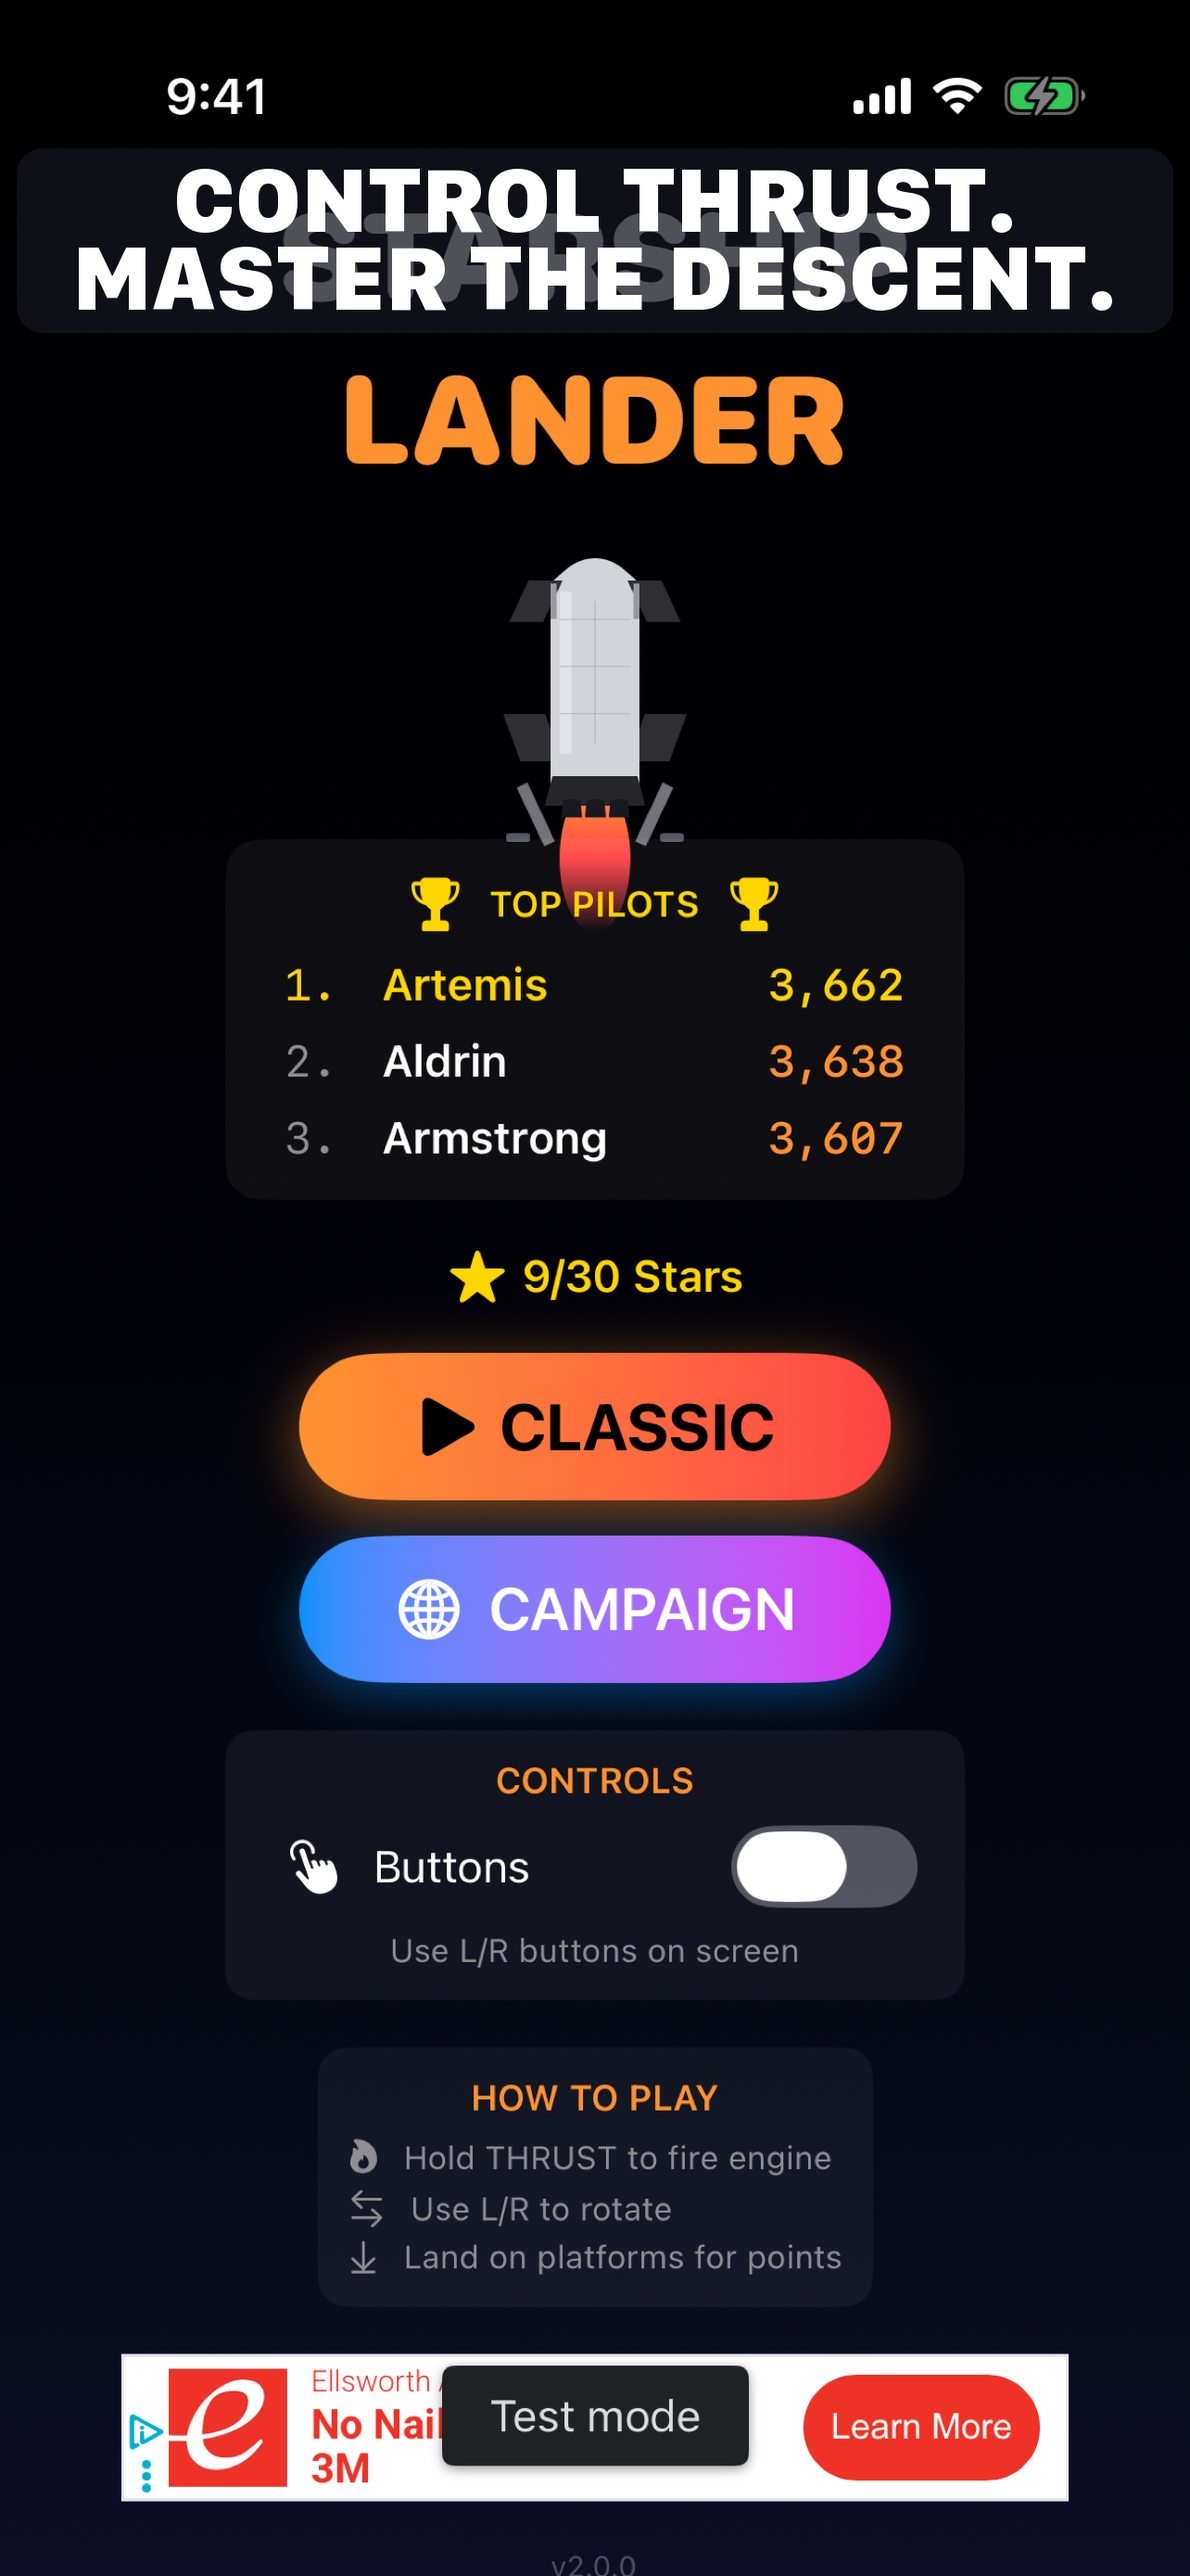
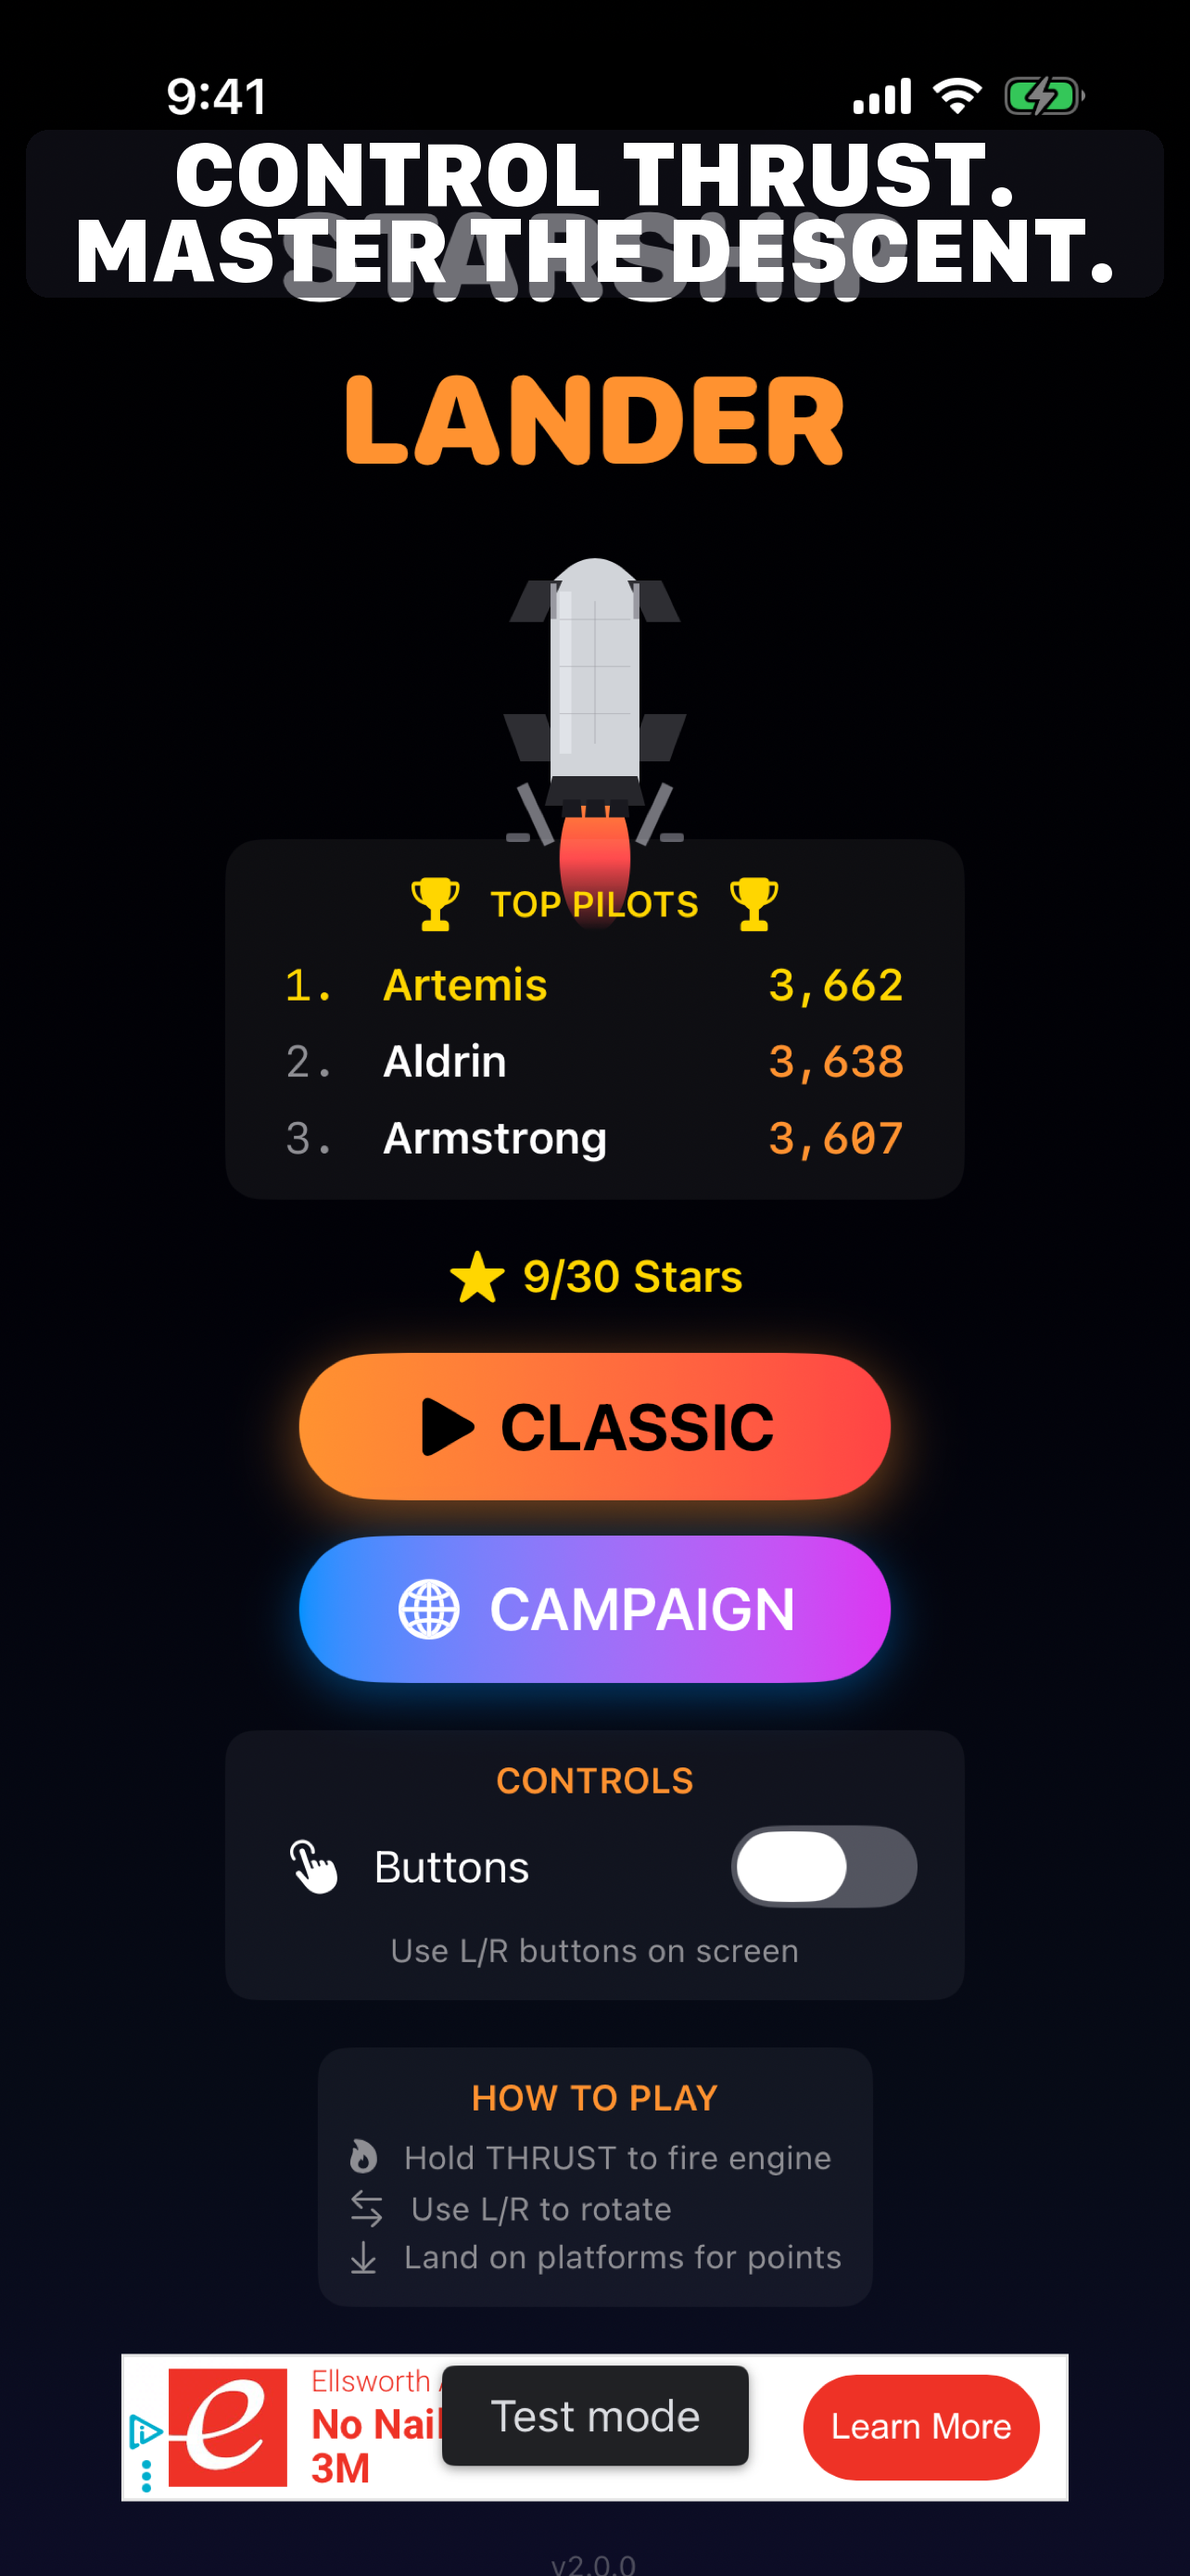
Tighten caption placement: 11% shorter pills, no HUD overlap
- Reduced pill padding (22→14 vertical, 60→50 horizontal)
- Reduced line spacing (14→12) and corner radius (28→24)
- Pill height: 198px → 180px (8.8% reduction, 19% total from v1)
- Main menu pill opacity reduced 75%→61% to prevent visual overload
  with game title and leaderboard
- All pills end at y=320, leaving clear gap before HUD at ~370+
- Caption reads as header, not banner

Changed region(s): [[0.0623, 0.031, 0.9346, 0.1238]]

diff --git a/Scripts/caption_screenshots.py b/Scripts/caption_screenshots.py
@@ -26,22 +26,28 @@ FONT_CANDIDATES = [
 ]
 
 FONT_SIZE = 100
-LINE_SPACING = 14  # pixels between lines
+LINE_SPACING = 12  # pixels between lines
 
-# Background pill styling
+# Background pill styling (default)
 PILL_COLOR = (20, 20, 30, 190)    # dark blue-black at ~75% opacity
-PILL_PADDING_H = 60               # horizontal padding inside pill
-PILL_PADDING_V = 22               # vertical padding inside pill
-PILL_RADIUS = 28                   # corner radius
+PILL_PADDING_H = 50               # horizontal padding inside pill
+PILL_PADDING_V = 14               # vertical padding inside pill
+PILL_RADIUS = 24                   # corner radius
 
-# Caption definitions: (filename, line1, line2, y_top)
-# y_top is the top edge of the pill (caption block anchored from top)
+# Caption definitions: (filename, line1, line2, y_top, pill_color_override)
+# y_top: top edge of pill, tuned per screenshot to sit as header with gap before HUD
+# pill_color_override: None = use default, or (r,g,b,a) tuple for this screenshot
 CAPTIONS = [
-    ('02_classic_gameplay.png',       'PRECISION PILOTING.',    'NO MARGIN FOR ERROR.',   160),
-    ('01_main_menu.png',             'CONTROL THRUST.',        'MASTER THE DESCENT.',    160),
-    ('06_campaign_venus_crash.png',   'Crash. Learn.',          'Try again.',             160),
-    ('10_landing_success.png',        'PRECISION',              'IS SCORED.',             160),
-    ('03_campaign_level_select.png',  'A 10-WORLD',            'SKILL CAMPAIGN',         160),
+    # 1. Gameplay — HUD box starts ~260px. Pill at 140 ends ~320, gap before HUD at ~370
+    ('02_classic_gameplay.png',       'PRECISION PILOTING.',    'NO MARGIN FOR ERROR.',   140, None),
+    # 2. Main menu — "LANDER" title at ~360. Reduced opacity to prevent visual overload
+    ('01_main_menu.png',             'CONTROL THRUST.',        'MASTER THE DESCENT.',    140, (20, 20, 30, 155)),
+    # 3. Crash — HUD starts ~260. Similar to gameplay
+    ('06_campaign_venus_crash.png',   'Crash. Learn.',          'Try again.',             140, None),
+    # 4. Landing success — HUD starts ~260
+    ('10_landing_success.png',        'PRECISION',              'IS SCORED.',             140, None),
+    # 5. Campaign select — "CAMPAIGN" header at ~266, cards at ~350
+    ('03_campaign_level_select.png',  'A 10-WORLD',            'SKILL CAMPAIGN',         140, None),
 ]
 
 
@@ -62,7 +68,7 @@ def measure_text(font, text):
     return bbox[2] - bbox[0], bbox[3] - bbox[1], bbox[1]
 
 
-def add_caption(input_path, output_path, line1, line2, y_top):
+def add_caption(input_path, output_path, line1, line2, y_top, pill_color=None):
     """Open a screenshot, draw a 2-line caption with background pill, save."""
     img = Image.open(input_path).convert('RGBA')
     width, height = img.size
@@ -72,6 +78,7 @@ def add_caption(input_path, output_path, line1, line2, y_top):
     draw = ImageDraw.Draw(overlay)
 
     font = find_font(FONT_SIZE)
+    color = pill_color or PILL_COLOR
 
     # Measure both lines
     w1, h1, yoff1 = measure_text(font, line1)
@@ -96,7 +103,7 @@ def add_caption(input_path, output_path, line1, line2, y_top):
     draw.rounded_rectangle(
         (pill_x0, pill_y0, pill_x1, pill_y1),
         radius=PILL_RADIUS,
-        fill=PILL_COLOR
+        fill=color
     )
 
     # Text positioning: centered in pill
@@ -119,17 +126,19 @@ def add_caption(input_path, output_path, line1, line2, y_top):
     # Save as PNG (lossless)
     result.save(output_path, 'PNG', optimize=False)
 
-    print(f"  Pill: ({pill_x0},{pill_y0}) to ({pill_x1},{pill_y1})")
+    opacity_pct = round(color[3] / 255 * 100)
+    print(f"  Pill: ({pill_x0},{pill_y0}) to ({pill_x1},{pill_y1}), h={pill_h}px, opacity={opacity_pct}%")
     return result.size
 
 
 def main():
     screenshots_dir = os.path.abspath(SCREENSHOTS_DIR)
     print(f"Screenshots directory: {screenshots_dir}")
-    print(f"Font size: {FONT_SIZE}px, Pill color: {PILL_COLOR}")
+    print(f"Font size: {FONT_SIZE}px, Default pill: {PILL_COLOR}")
     print()
 
-    for filename, line1, line2, y_top in CAPTIONS:
+    for entry in CAPTIONS:
+        filename, line1, line2, y_top, pill_override = entry
         input_path = os.path.join(screenshots_dir, filename)
         base, ext = os.path.splitext(filename)
         output_name = f"{base}_captioned{ext}"
@@ -139,7 +148,7 @@ def main():
             print(f"SKIP: {filename} not found")
             continue
 
-        size = add_caption(input_path, output_path, line1, line2, y_top)
+        size = add_caption(input_path, output_path, line1, line2, y_top, pill_override)
         print(f"OK: {output_name} ({size[0]}x{size[1]})")
 
     print("\nDone.")
